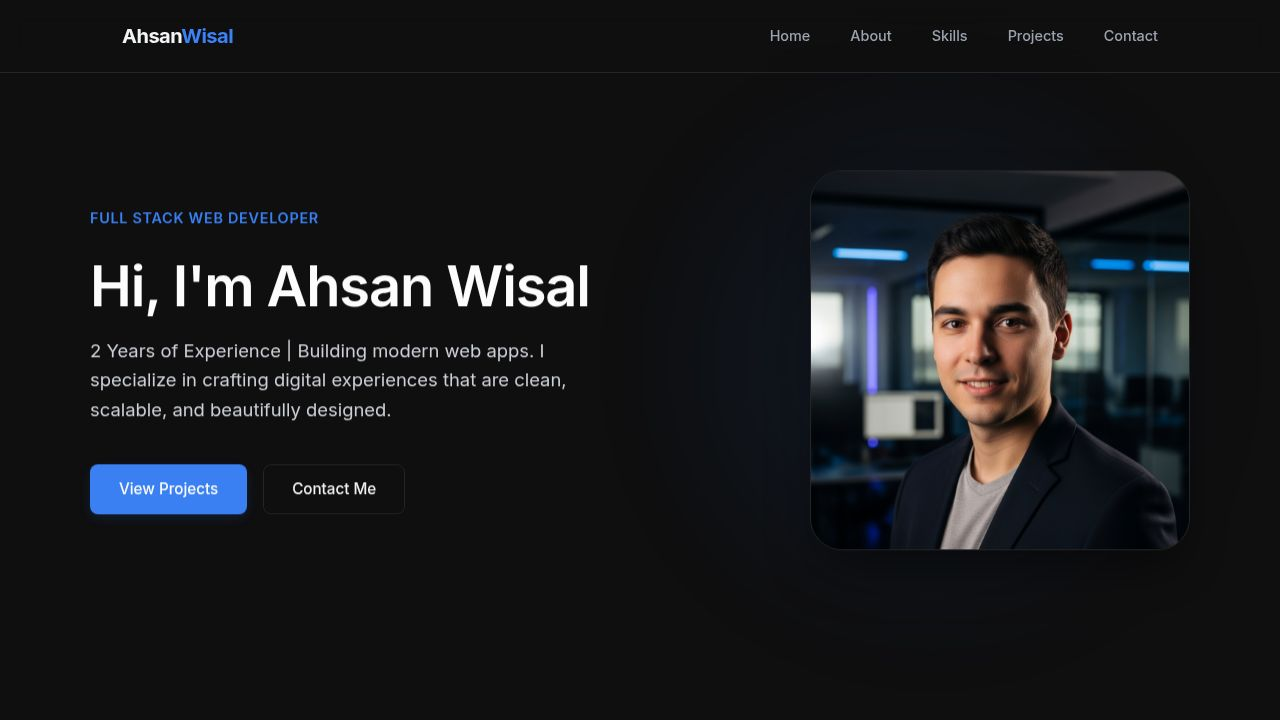
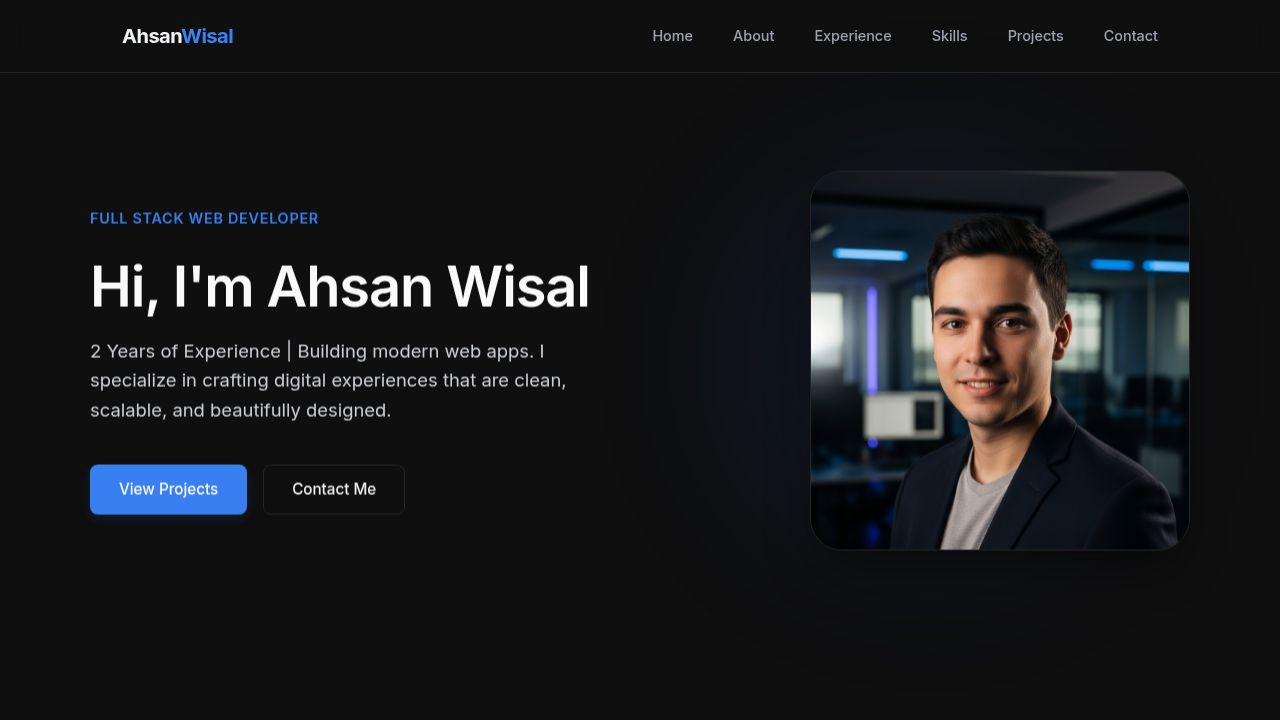
Add a new section to display work experience with a timeline layout
Introduce CSS styles for a vertical timeline layout, experience cards, badges, and tech stack display to the portfolio HTML.

Replit-Commit-Author: Agent
Replit-Commit-Session-Id: 2a4e2f95-f89d-4db2-ba9f-717157579c74
Replit-Commit-Checkpoint-Type: full_checkpoint
Replit-Commit-Event-Id: 4dd0896b-2cfa-4250-b4d3-c3d4a9248610
Replit-Commit-Screenshot-Url: https://storage.googleapis.com/screenshot-production-us-central1/a21e2543-c13b-4d2d-b896-7d031021a994/2a4e2f95-f89d-4db2-ba9f-717157579c74/OQtfM6b
Replit-Helium-Checkpoint-Created: true

diff --git a/client/index.html b/client/index.html
@@ -287,6 +287,147 @@
             color: #ffffff;
         }
 
+        /* Experience Section */
+        .experience-timeline {
+            position: relative;
+            max-width: 800px;
+            margin: 0 auto;
+            padding-left: 2rem;
+        }
+
+        .experience-timeline::before {
+            content: '';
+            position: absolute;
+            left: 0;
+            top: 0;
+            bottom: 0;
+            width: 2px;
+            background: var(--border-color);
+        }
+
+        .experience-item {
+            position: relative;
+            margin-bottom: 3.5rem;
+        }
+
+        .experience-item::before {
+            content: '';
+            position: absolute;
+            left: -2.35rem;
+            top: 0.5rem;
+            width: 12px;
+            height: 12px;
+            border-radius: 50%;
+            background: var(--bg-color);
+            border: 2px solid var(--accent-color);
+            z-index: 1;
+        }
+
+        .experience-card {
+            background: var(--surface-color);
+            border: 1px solid var(--border-color);
+            border-radius: 1rem;
+            padding: 2rem;
+            transition: all 0.3s ease;
+        }
+
+        .experience-card:hover {
+            border-color: rgba(59, 130, 246, 0.3);
+            transform: translateX(10px);
+        }
+
+        .experience-header {
+            display: flex;
+            justify-content: space-between;
+            align-items: flex-start;
+            margin-bottom: 1rem;
+            flex-wrap: wrap;
+            gap: 1rem;
+        }
+
+        .experience-company {
+            font-size: 1.25rem;
+            font-weight: 700;
+            color: #ffffff;
+        }
+
+        .experience-duration {
+            font-size: 0.85rem;
+            color: var(--text-muted);
+            font-weight: 500;
+        }
+
+        .experience-role-info {
+            display: flex;
+            align-items: center;
+            gap: 0.75rem;
+            margin-bottom: 1rem;
+            flex-wrap: wrap;
+        }
+
+        .experience-role {
+            font-size: 1rem;
+            font-weight: 600;
+            color: var(--accent-color);
+        }
+
+        .badge {
+            font-size: 0.7rem;
+            font-weight: 700;
+            padding: 0.25rem 0.75rem;
+            border-radius: 2rem;
+            text-transform: uppercase;
+            letter-spacing: 0.05em;
+        }
+
+        .badge-green {
+            background: rgba(34, 197, 94, 0.1);
+            color: #22c55e;
+        }
+
+        .badge-blue {
+            background: rgba(59, 130, 246, 0.1);
+            color: #3b82f6;
+        }
+
+        .experience-location {
+            font-size: 0.85rem;
+            color: var(--text-muted);
+            margin-bottom: 1rem;
+            display: block;
+        }
+
+        .experience-desc {
+            font-size: 0.95rem;
+            color: #d1d5db;
+            line-height: 1.7;
+            margin-bottom: 1.5rem;
+        }
+
+        .experience-tech {
+            display: flex;
+            flex-wrap: wrap;
+            gap: 0.5rem;
+        }
+
+        .experience-tech span {
+            font-size: 0.75rem;
+            font-weight: 600;
+            color: var(--text-muted);
+            background: rgba(255, 255, 255, 0.05);
+            padding: 0.25rem 0.6rem;
+            border-radius: 0.25rem;
+        }
+
+        h2.with-underline::after {
+            content: '';
+            display: block;
+            width: 40px;
+            height: 3px;
+            background: var(--accent-color);
+            margin-top: 0.75rem;
+        }
+
         /* Projects */
         .projects-grid {
             display: grid;
@@ -595,6 +736,7 @@
             <ul class="nav-links">
                 <li><a href="#home">Home</a></li>
                 <li><a href="#about">About</a></li>
+                <li><a href="#experience">Experience</a></li>
                 <li><a href="#skills">Skills</a></li>
                 <li><a href="#projects">Projects</a></li>
                 <li><a href="#contact">Contact</a></li>
@@ -625,6 +767,58 @@
             <p>I am a passionate full stack developer who loves turning complex problems into simple, beautiful, and intuitive interfaces.</p>
             <p>Over the past 2 years, I've dedicated myself to building scalable web applications with modern technologies. I focus on writing clean, maintainable code and building responsive, user-friendly architectures.</p>
             <p>When I'm not coding, I'm exploring new web technologies, refining my design skills, and staying up to date with industry trends.</p>
+        </section>
+
+        <!-- Experience Section -->
+        <section id="experience" class="section container fade-in">
+            <h2 class="with-underline">Experience</h2>
+            <div class="experience-timeline">
+                
+                <!-- Experience Item 1 -->
+                <div class="experience-item">
+                    <div class="experience-card">
+                        <div class="experience-header">
+                            <span class="experience-company">CodeUpScale</span>
+                            <span class="experience-duration">2024 - Present</span>
+                        </div>
+                        <div class="experience-role-info">
+                            <span class="experience-role">Full Stack Developer</span>
+                            <span class="badge badge-green">Full Time</span>
+                        </div>
+                        <p class="experience-desc">Working on full stack web applications, contributing to both frontend and backend development using modern technologies.</p>
+                        <div class="experience-tech">
+                            <span>React</span>
+                            <span>TypeScript</span>
+                            <span>NestJS</span>
+                            <span>MongoDB</span>
+                            <span>Next.js</span>
+                        </div>
+                    </div>
+                </div>
+
+                <!-- Experience Item 2 -->
+                <div class="experience-item">
+                    <div class="experience-card">
+                        <div class="experience-header">
+                            <span class="experience-company">4 Dot Solutions</span>
+                            <span class="experience-duration">2023 - 2024</span>
+                        </div>
+                        <div class="experience-role-info">
+                            <span class="experience-role">Frontend Developer Intern</span>
+                            <span class="badge badge-blue">Internship</span>
+                        </div>
+                        <span class="experience-location">Lahore, Pakistan (Remote)</span>
+                        <p class="experience-desc">Worked remotely on frontend development tasks, building UI components and improving user experience for web applications.</p>
+                        <div class="experience-tech">
+                            <span>HTML</span>
+                            <span>CSS</span>
+                            <span>JavaScript</span>
+                            <span>React</span>
+                        </div>
+                    </div>
+                </div>
+
+            </div>
         </section>
 
         <!-- Skills Section -->
